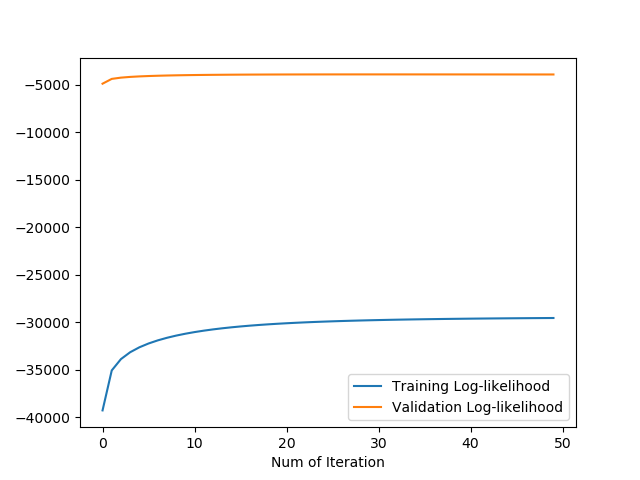
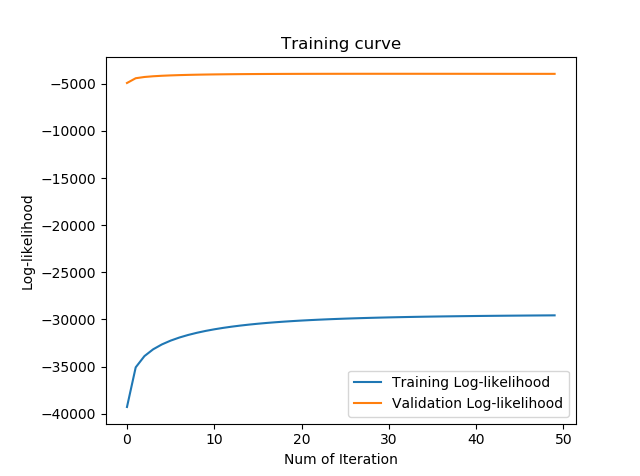
modify Q2

diff --git a/Final Project/starter_code/part_a/item_response.py b/Final Project/starter_code/part_a/item_response.py
@@ -151,6 +151,8 @@ def main():
     plt.plot(train_loglik, label="Training Log-likelihood")
     plt.plot(valid_loglik, label="Validation Log-likelihood")
     plt.xlabel("Num of Iteration")
+    plt.ylabel("Log-likelihood")
+    plt.title("Training curve")
     plt.legend()
     plt.show()
     #####################################################################
@@ -172,11 +174,11 @@ def main():
     p_4 = sigmoid(theta - beta[3])
     p_5 = sigmoid(theta - beta[4])
 
-    plt.plot(theta, p_1, label="question 1")
-    plt.plot(theta, p_2, label="question 2")
-    plt.plot(theta, p_3, label="question 3")
-    plt.plot(theta, p_4, label="question 4")
-    plt.plot(theta, p_5, label="question 5")
+    plt.scatter(theta, p_1, label="question 1")
+    plt.scatter(theta, p_2, label="question 2")
+    plt.scatter(theta, p_3, label="question 3")
+    plt.scatter(theta, p_4, label="question 4")
+    plt.scatter(theta, p_5, label="question 5")
     plt.xlabel("Value of theta")
     plt.ylabel("Probability of the correct response")
     plt.legend()
